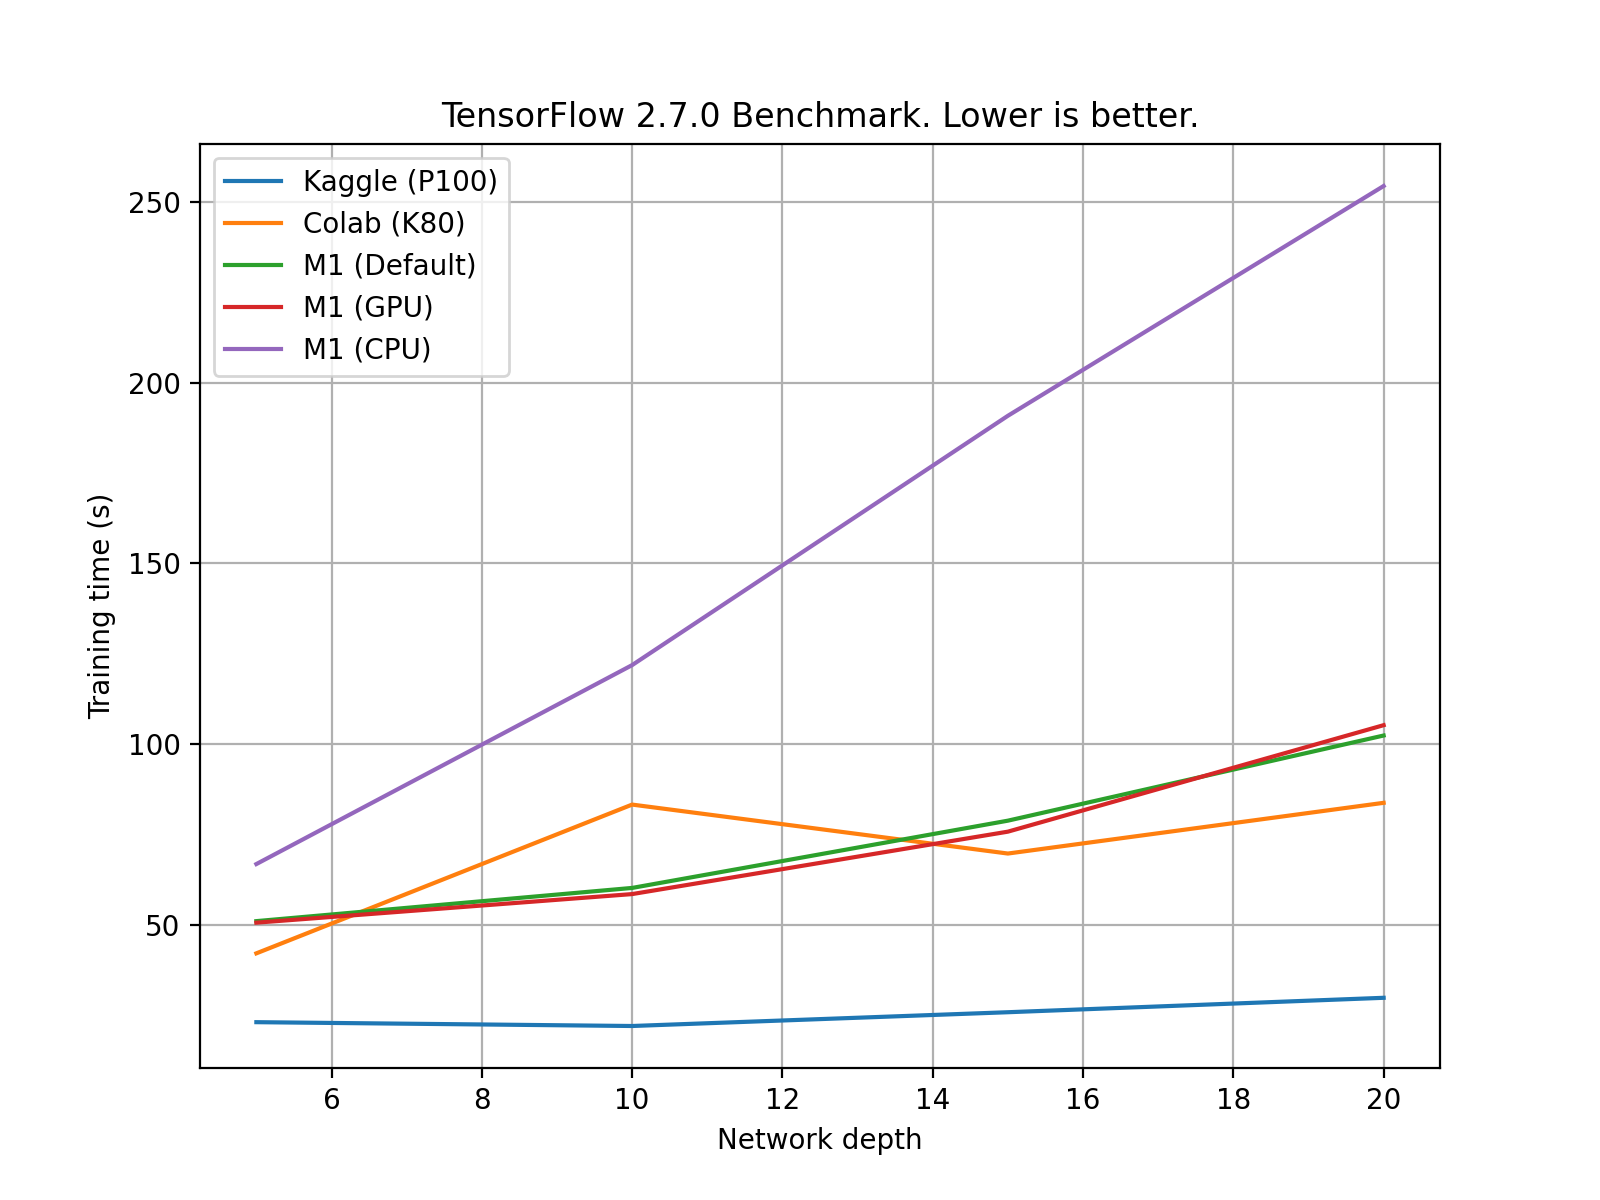
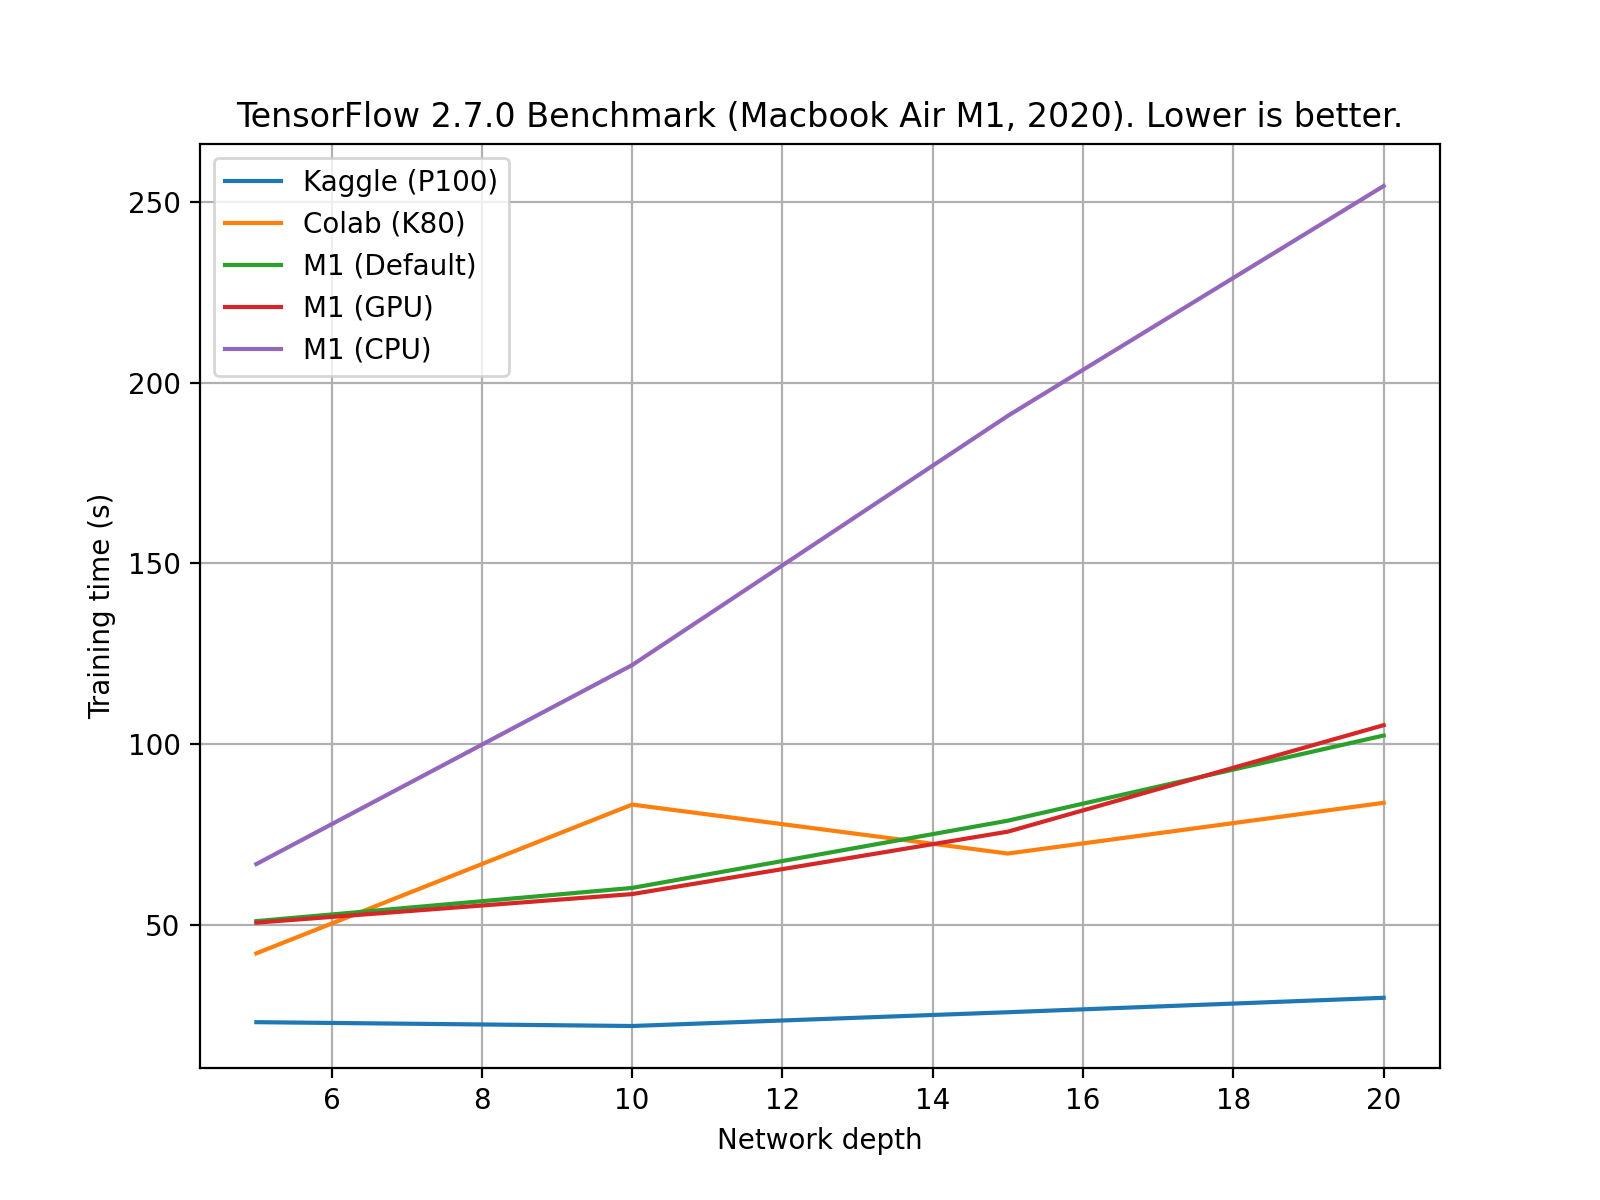
Add M1 to plot title.

Changed region(s): [[0.1562, 0.0617, 0.875, 0.1233]]

diff --git a/plot_results.py b/plot_results.py
@@ -17,5 +17,5 @@ plt.legend()
 plt.grid()
 plt.xlabel("Network depth")
 plt.ylabel("Training time (s)")
-plt.title(f"TensorFlow {tf.__version__} Benchmark. Lower is better.")
+plt.title(f"TensorFlow {tf.__version__} Benchmark (Macbook Air M1, 2020). Lower is better.")
 plt.savefig("results.png")
